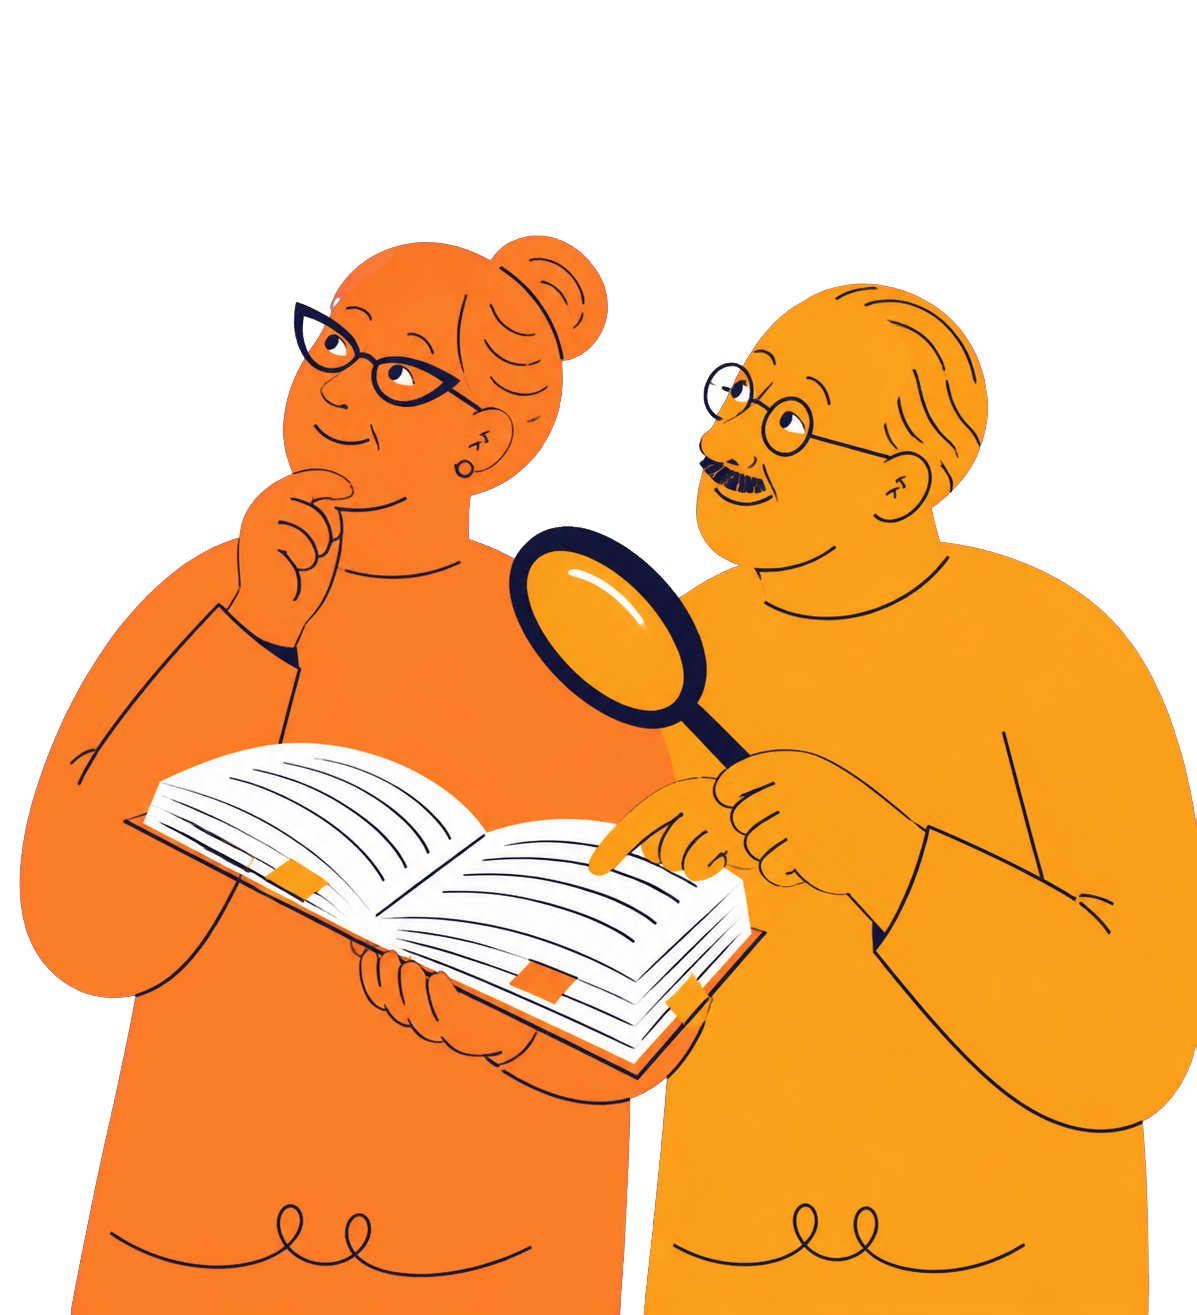
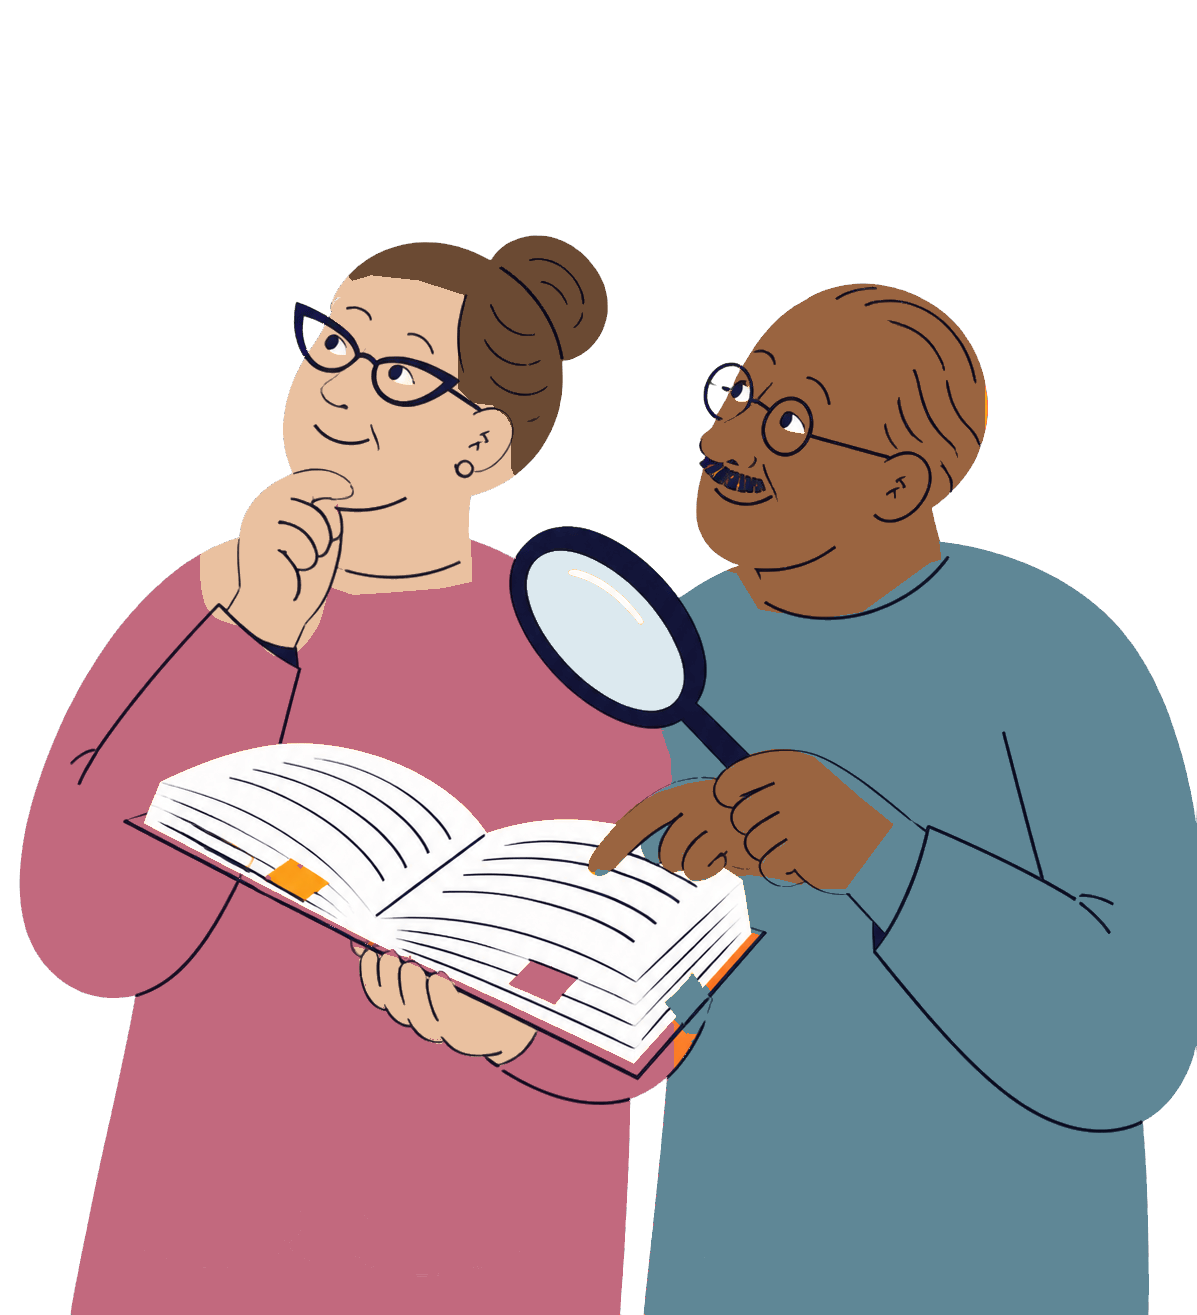
Illustrations : vraie peau, cheveux et nouvelles tenues pour les onze personnages
Dessins de Bible Strong conservés ; chaque zone recolorée séparément (peau sur
tout le corps, cheveux, vêtements), motifs bouclés des vêtements effacés,
lunettes retirées sur quatre personnes.

Claude-Session: https://claude.ai/code/session_01PU15sVuetb6ysNNZNdNBZ9

diff --git a/docs/ILLUSTRATIONS.md b/docs/ILLUSTRATIONS.md
@@ -44,3 +44,11 @@ Aînés : rides, cheveux gris ou blancs. Enfants : visage rond, grands yeux.
 Une fois les images obtenues, les déposer sous ces noms : l'app les utilise sans autre changement
 (les trois images `new-tab/*` sont aujourd'hui en `.webp` : remplacer par des `.png` du même nom et
 mettre à jour les deux `require` de `src/features/app-switcher/TabScreen/NewTab/`).
+
+## État actuel : dessins de Bible Strong recolorés à la main
+
+Les onze personnages ci-dessus (Audio, Nouvel onglet, accueil des nouveaux utilisateurs) gardent le
+dessin d'origine de Bible Strong, mais chaque zone a été recolorée séparément : vraie couleur de peau
+sur tout le corps (visage, cou, oreilles, mains), vraies couleurs de cheveux, nouvelles tenues ; les
+petits motifs bouclés des vêtements sont effacés et quatre personnes ne portent plus de lunettes.
+Les trois photos de l'accueil (cours, plan BibleProject, frise) restent à remplacer.
